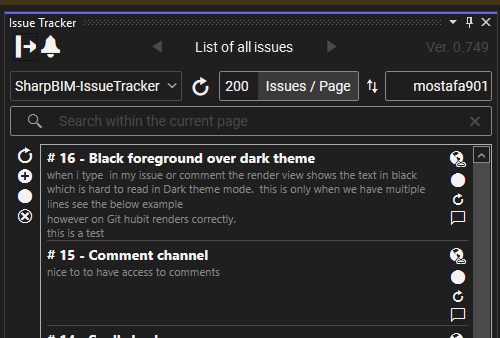
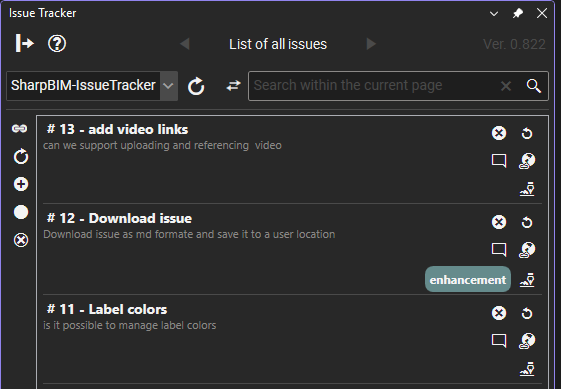
Updated Images

diff --git a/SharpBim.GitTracker.Core/WPF/Mvvm/Views/IssueListView.xaml b/SharpBim.GitTracker.Core/WPF/Mvvm/Views/IssueListView.xaml
@@ -23,14 +23,19 @@
 
         <Grid.RowDefinitions>
             <RowDefinition Height="auto" />
-            <RowDefinition Height="30" />
+            <RowDefinition Height="auto" />
             <RowDefinition Height="*" />
             <RowDefinition Height="auto" />
+            <RowDefinition Height="auto" />
         </Grid.RowDefinitions>
-        <WrapPanel VerticalAlignment="Top" Orientation="Horizontal">
-
-
-
+        <Grid HorizontalAlignment="Stretch" VerticalAlignment="Top">
+            <Grid.ColumnDefinitions>
+                <ColumnDefinition Width="auto" />
+                <ColumnDefinition Width="auto" />
+                <ColumnDefinition Width="auto" />
+                <ColumnDefinition Width="auto" />
+                <ColumnDefinition Width="*" />
+            </Grid.ColumnDefinitions>
             <Grid IsEnabled="{Binding LoggedIn}">
                 <Grid.ColumnDefinitions>
                     <ColumnDefinition Width="auto" />
@@ -39,13 +44,7 @@
                     <ColumnDefinition Width="auto" />
                 </Grid.ColumnDefinitions>
 
-                <ui:UIButton
-                    Grid.Column="0"
-                    Width="auto"
-                    Margin="0"
-                    Command="{Binding VisitRepoCommand}"
-                    GlyphSize="15"
-                    ShowText="False" />
+
                 <ui:UiComboBox
                     Grid.Column="1"
                     MinWidth="150"
@@ -62,19 +61,12 @@
                     ShowText="False" />
 
             </Grid>
-            <ui:TaggedTextBox
-                Grid.Column="1"
-                IsNumericOnly="True"
-                TaggedText="Issues / Page"
-                TaggedWidth="100"
-                Text="{Binding FetchIssueCounts}"
-                ToolTip="Number of issues to show/fetch"
-                UpdateOnEnter="True" />
 
             <ui:UIButton
                 Grid.Column="2"
-                Margin="0,0,0,0"
+                Margin="5,0,0,0"
                 Command="{Binding LoadCurrentProjectCommand}"
+                GlyphRotation="90"
                 IsEnabled="{Binding LoggedIn}"
                 ShowText="False" />
 
@@ -87,21 +79,31 @@
                 TextAlignment="Right"
                 UpdateOnEnter="True"
                 Visibility="Collapsed" />
-        </WrapPanel>
-        <ui:SearchTextBox
-            Grid.Row="1"
-            Width="auto"
-            HorizontalAlignment="Stretch"
-            PlaceHolder="Search within the current page"
-            Text="{Binding TextToFilter, Delay=600, UpdateSourceTrigger=PropertyChanged}"
-            UpdateOnEnter="true" />
 
-        <Grid Grid.Row="2" Margin="0,8,0,0">
+            <ui:SearchTextBox
+                Grid.Column="4"
+                Width="auto"
+                Margin="0,0,0,0"
+                HorizontalAlignment="Stretch"
+                PlaceHolder="Search within the current page"
+                Text="{Binding TextToFilter, Delay=600, UpdateSourceTrigger=PropertyChanged}"
+                UpdateOnEnter="true" />
+        </Grid>
+        <Separator Grid.Row="1" Margin="0,5"/>
+        <Grid Grid.Row="2"  >
             <Grid.ColumnDefinitions>
                 <ColumnDefinition Width="auto" />
                 <ColumnDefinition Width="*" />
             </Grid.ColumnDefinitions>
             <StackPanel MinWidth="30">
+                <ui:UIButton
+                    Grid.Column="0"
+                    Width="30"
+                    Margin="0"
+                    Command="{Binding VisitRepoCommand}"
+                    GlyphRotation="90"
+                    GlyphSize="15"
+                    ShowText="False" />
                 <ui:UIButton Command="{Binding ReloadCommand}" ShowText="False" />
                 <ui:UIButton Command="{Binding CreateNewIssueCommand}" ShowText="False" />
                 <ui:UIButton
@@ -135,17 +137,22 @@
                 </i:Interaction.Triggers>
             </ListView>
         </Grid>
-        <Grid Grid.Row="3" Margin="30,0">
+        <Separator Grid.Row="3" Margin="0,5" />
+
+        <Grid Grid.Row="4" Margin="0,0">
             <Grid.ColumnDefinitions>
-                <ColumnDefinition Width="auto " />
+                <ColumnDefinition Width="auto" />
                 <ColumnDefinition Width="*" />
                 <ColumnDefinition Width="auto " />
 
             </Grid.ColumnDefinitions>
-            <!--<TextBlock>
-                <Run>Closed:</Run>
-                <Run Text="{Binding TotalClosedIssues}" />
-            </TextBlock>-->
+            <ui:TaggedTextBox
+                IsNumericOnly="True"
+                TaggedText="Issues / Page"
+                TaggedWidth="100"
+                Text="{Binding FetchIssueCounts}"
+                ToolTip="Number of issues to show/fetch"
+                UpdateOnEnter="True" />
             <Grid Grid.Column="1" HorizontalAlignment="Center">
                 <Grid.ColumnDefinitions>
                     <ColumnDefinition Width="auto" />

diff --git a/SharpBim.GitTracker.Core/WPF/Mvvm/Views/DataTemplates.xaml b/SharpBim.GitTracker.Core/WPF/Mvvm/Views/DataTemplates.xaml
@@ -42,14 +42,14 @@
             Margin="2"
             Padding="2"
             Background="{Binding BackgroundBrush, UpdateSourceTrigger=PropertyChanged}"
-            CornerRadius="15"
+            CornerRadius="8"
             Cursor="Hand">
 
             <TextBlock
                 Width="auto"
                 MinWidth="25"
-                Margin="2"
-                Padding="0"
+                Margin="1"
+                Padding="2"
                 VerticalAlignment="Center"
                 FontWeight="Bold"
                 Foreground="{Binding FontBrush, UpdateSourceTrigger=PropertyChanged}"
@@ -256,11 +256,18 @@
                         TextWrapping="Wrap" />
                 </Grid>
 
-                <StackPanel
+                <WrapPanel
                     Grid.Column="1"
+                    MaxHeight="60"
                     HorizontalAlignment="Right"
-                    VerticalAlignment="Top">
+                    VerticalAlignment="Top"
+                    FlowDirection="RightToLeft"
+                    Orientation="Vertical">
 
+                    <ui:UIButton
+                        Background="Transparent"
+                        Command="{Binding ReloadIssueCommand}"
+                        ShowText="False" />
                     <ui:UIButton
                         Background="Transparent"
                         Command="{Binding ShowOnWebCommand}"
@@ -272,13 +279,9 @@
                         ShowText="False" />
                     <ui:UIButton
                         Background="Transparent"
-                        Command="{Binding ReloadIssueCommand}"
-                        ShowText="False" />
-                    <ui:UIButton
-                        Background="Transparent"
                         Command="{Binding OpenCommentsCommand}"
                         ShowText="False" />
-                </StackPanel>
+                </WrapPanel>
 
                 <Grid
                     Grid.Row="1"

diff --git a/SharpBim.GitTracker.Core/WPF/Mvvm/Views/MainPage.xaml b/SharpBim.GitTracker.Core/WPF/Mvvm/Views/MainPage.xaml
@@ -22,8 +22,8 @@
             </Grid.RowDefinitions>
             <Grid Margin="8,0">
                 <Grid.ColumnDefinitions>
-                    <ColumnDefinition Width="*" />
                     <ColumnDefinition Width="auto" />
+                    <ColumnDefinition Width="*" />
                     <ColumnDefinition Width="auto" />
                     <ColumnDefinition Width="auto" />
                 </Grid.ColumnDefinitions>

diff --git a/SharpBim.GitTracker.Core/WPF/Mvvm/ViewModels/MainPageViewModel.cs b/SharpBim.GitTracker.Core/WPF/Mvvm/ViewModels/MainPageViewModel.cs
@@ -28,7 +28,7 @@ namespace SharpBIM.GitTracker.Core.WPF.Views
             NavigateForwardCommand = new SharpBIMCommand(NavigateForward, "Navigate Forward", Glyphs.empty, (x) => true);
             CheckForUpdatesCommand = new SharpBIMCommand(async (x) => await CheckForUpdates(x), "Check for updates", Glyphs.empty, (x) => true);
             ShowLoginScreenCommand = new SharpBIMCommand(async (x) => await ShowLoginScreen(null), "Login", Glyphs.login, (x) => true);
-            FeedBackCommand = new SharpBIMCommand(async (x) => await FeedBack(x), "Feedback", Glyphs.notification, (x) => true);
+            FeedBackCommand = new SharpBIMCommand(async (x) => await FeedBack(x), "Feedback", Glyphs.question, (x) => true);
             StarRepoCommand = new SharpBIMCommand(async (x) => await StarRepo(x), "Star me", Glyphs.star_outline, (x) => true);
             IsLoginScreen = true;
             var ver = this.GetType().Assembly.GetName().Version;
@@ -36,9 +36,6 @@ namespace SharpBIM.GitTracker.Core.WPF.Views
             ProgressActivity = new();
             ProgressActivity.FillBrush = ResourceValues.SolidColorBrushs.ControlBlueThemeBrush;
         }
-
-
-     
 
         public bool IsCheckingForUpdate
         {
@@ -72,6 +69,7 @@ namespace SharpBIM.GitTracker.Core.WPF.Views
                         if (releaseModel.tag_name != Version)
                         {
                             NewVersionLink = new Uri("https://marketplace.visualstudio.com/items?itemName=SharpBIM.SharpBIMGitTracker");
+                            Version = releaseModel.tag_name;
                         }
                     }
                 }

diff --git a/SharpBim.GitTracker.Core/WPF/Mvvm/ViewModels/IssueListViewModel.cs b/SharpBim.GitTracker.Core/WPF/Mvvm/ViewModels/IssueListViewModel.cs
@@ -20,7 +20,6 @@ namespace SharpBIM.GitTracker.Core.WPF.Mvvm.ViewModels
 
         public IssueListViewModel()
         {
-            Title = "List of all issues";
             LoadCommands();
             ColView.Filter = FilterIssues;
             ColView.SortDescriptions.Clear(); // Clear previous sorting
@@ -345,6 +344,8 @@ namespace SharpBIM.GitTracker.Core.WPF.Mvvm.ViewModels
           {
               try
               {
+                  Title = $"List of all {CurrentState} issues";
+
                   if ((SelectedRepo != null))
                   {
                       TotalOpened = SelectedRepo.open_issues_count;

diff --git a/SharpBim.GitTracker/Properties/AssemblyInfo.cs b/SharpBim.GitTracker/Properties/AssemblyInfo.cs
@@ -30,8 +30,8 @@ using System.Runtime.InteropServices;
 //      Build Number
 //      Revision
 //
-[assembly: AssemblyVersion("0.822.0.0")]
-[assembly: AssemblyFileVersion("0.822.0.0")]
+[assembly: AssemblyVersion("0.825.0.0")]
+[assembly: AssemblyFileVersion("0.825.0.0")]
 [assembly: NeutralResourcesLanguage("en-BW")]
 
-[assembly: AssemblyInformationalVersion("0.822.0.0")]
+[assembly: AssemblyInformationalVersion("0.825.0.0")]

diff --git a/SharpBim.GitTracker/Release_Notes.md b/SharpBim.GitTracker/Release_Notes.md
@@ -1,53 +1,66 @@
 
-## Version 0.822 - March 2025
+## Version 0.822 - May 2026
+☑ UI Alignments  
+☑ MessageBox location is fixed to be centered on the main window instead of the screen.  
+
+## Version 0.822 - May 2026
 ☑ #42 - labels are missed on creating  
 ☑ Fix refresh list page upon adding issue.
 ☑ #21 - Total number of opened issues are displayed.
 ☑ #41 - Feature visit repo
-## Version 0.821 - March 2025
+## Version 0.821 - May 2026
 ☑ Press CTRL + ENTER to push comments  
 ☑ Updated MD Library to fix the #16
 ☑ Add Spell check to comments and Issue detail #14
 
-## Version 0.813 - March 2025
+## Version 0.813 - April 2026
 ☑ Fix bug if image inside issue is removed from github  
 ☑ Fix #18 sorting issue after adding a new issue  
 ☑ Add tool-tip to user avatar shows user name  
 ☑ remove window controls close, restore, minimize from message windows  
 
-## Version 0.812 - March 2025
+## Version 0.812 - April 2026
 ☑ Fix uploading image to issue body  
 ☑ Add feature assign or unassign multiple assignees to an issue  
 
-## Version 0.811 - March 2025
+## Version 0.811 - April 2026
 ☑ Added Missing libraries from the final build  
 
-## Version 0.810 - March 2025
+## Version 0.810 - April 2026
 ☑ Fix #29 internal crash on creating issue  
 ☑ Enhanced #30 issue card look and feel  
 
-## Version 0.808 - March 2025
+## Version 0.808 - April 2026
 ☑ Add feature #22 to see Labels from list view  
 ☑ Add feature #28 Assign or unassign yourself to an issue  
 ☑ Add feature #20 - Right click to copy issue title  
 
-## Version 0.795 - March 2025
+## Version 0.803 - April 2026
+☑ Add feature to see Labels from list view #22
+☑ Add feature Assign or unassign yourself to an issue #28
+
+## Version 0.795 - April 2026
 ☑ fix Login buttons style is off. Code maintainability issue
 
-## Version 0.791 - March 2025
+
+## Version 0.791 - April 2026
 ☑ fix #27 issue with posting and retrieving comments
 
-## Version 0.788 - March 2025
+## Version 0.788 - April 2026
 ☑ Improved error pushing issues with different RepoOwner than the one used for login
 
-## Version 0.780 - March 2025
+## Version 0.780 - August 2025
 ☑ Fix Application Missing credential
 
-## Version 0.762 - March 2025
+## Version 0.762 - May 2025
 ☑ Fix Rest credential
 
 ## Version 0.756 - March 2025
 ☑ Fix invalid credential upon login  
+
+## Version 0.755 - March 2025
+☑ Fix invalid credential upon login
+
 
 ## Version 0.753 - March 2025
 ☑ Implemented Check for updates, just click on the version text  
@@ -73,7 +86,7 @@
 ☑ Fix bad linked references  
 ☑ Display app version on the interface  
 
-## Version 0.740 - March 2025
+## Version 0.742 - March 2025
 
 ☑ Fix issue #4 Hitting push crash  
 ☑ Fix issue #3 Authorizing failure  
